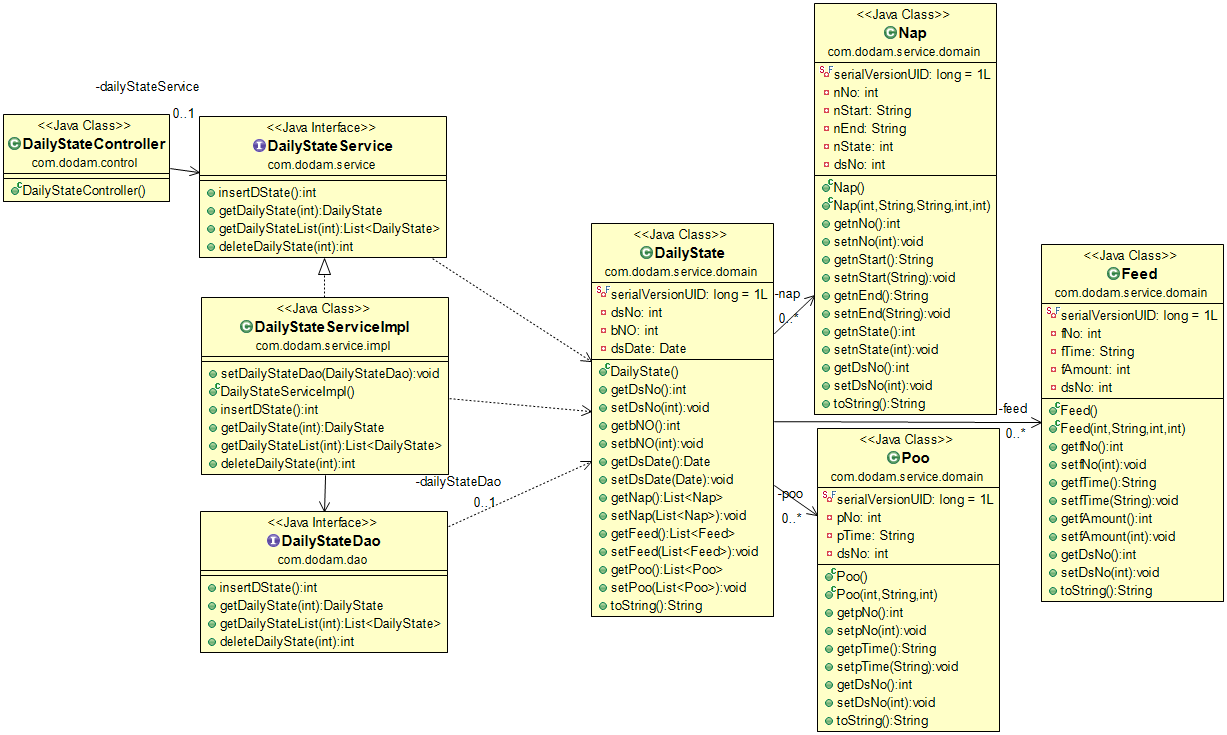
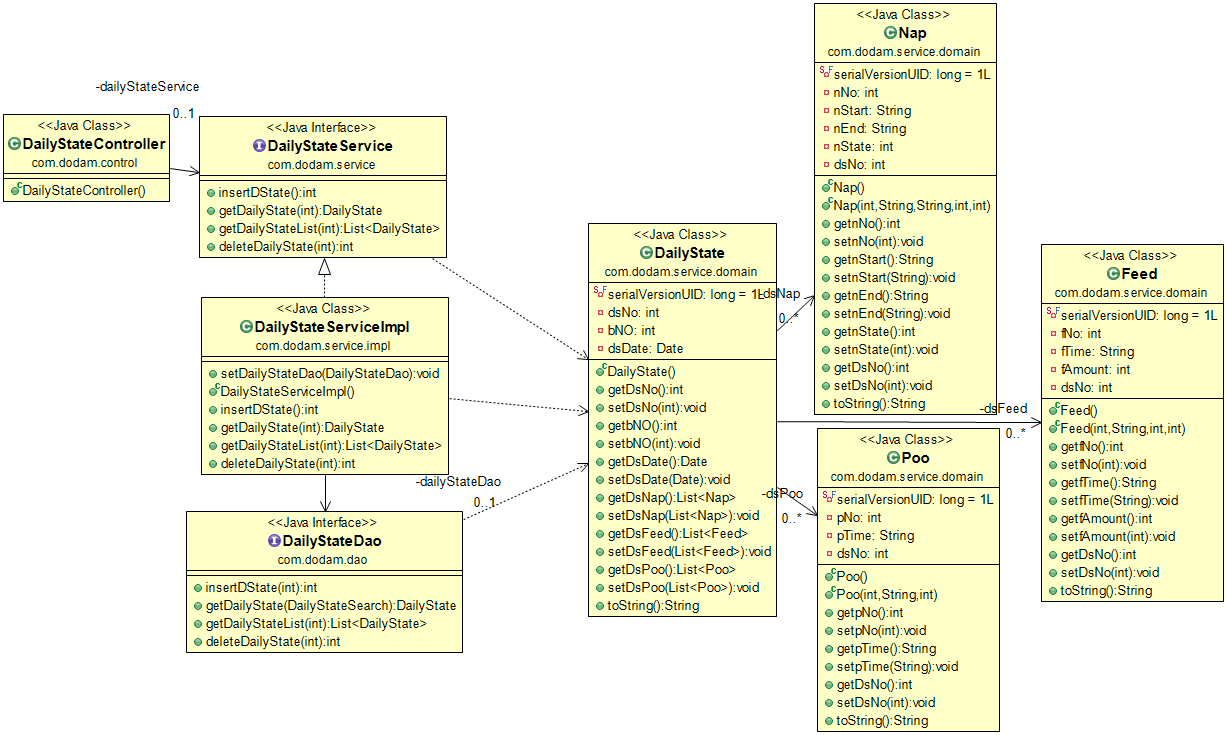
[박지훈] 1.DailyState 관련 객체들 수정중 2.폴더구조 import 확인을 위한 Test

diff --git a/DodamProject/src/main/java/com/dodam/service/domain/DailyState.java b/DodamProject/src/main/java/com/dodam/service/domain/DailyState.java
@@ -10,9 +10,9 @@ public class DailyState implements Serializable {
 	private int dsNo;
 	private int bNO;
 	private Date dsDate;
-	private List<Nap> nap;
-	private List<Feed> feed;
-	private List<Poo> poo;
+	private List<Nap> dsNap;
+	private List<Feed> dsFeed;
+	private List<Poo> dsPoo;
 	
 
 	public DailyState() {
@@ -50,33 +50,33 @@ public class DailyState implements Serializable {
 	}
 
 
-	public List<Nap> getNap() {
-		return nap;
+	public List<Nap> getDsNap() {
+		return dsNap;
 	}
 
 
-	public void setNap(List<Nap> nap) {
-		this.nap = nap;
+	public void setDsNap(List<Nap> dsNap) {
+		this.dsNap = dsNap;
 	}
 
 
-	public List<Feed> getFeed() {
-		return feed;
+	public List<Feed> getDsFeed() {
+		return dsFeed;
 	}
 
 
-	public void setFeed(List<Feed> feed) {
-		this.feed = feed;
+	public void setDsFeed(List<Feed> dsFeed) {
+		this.dsFeed = dsFeed;
 	}
 
 
-	public List<Poo> getPoo() {
-		return poo;
+	public List<Poo> getDsPoo() {
+		return dsPoo;
 	}
 
 
-	public void setPoo(List<Poo> poo) {
-		this.poo = poo;
+	public void setDsPoo(List<Poo> dsPoo) {
+		this.dsPoo = dsPoo;
 	}
 
 
@@ -89,15 +89,14 @@ public class DailyState implements Serializable {
 		builder.append(bNO);
 		builder.append(", dsDate=");
 		builder.append(dsDate);
-		builder.append(", nap=");
-		builder.append(nap);
-		builder.append(", feed=");
-		builder.append(feed);
-		builder.append(", poo=");
-		builder.append(poo);
+		builder.append(", dsNap=");
+		builder.append(dsNap);
+		builder.append(", dsFeed=");
+		builder.append(dsFeed);
+		builder.append(", dsPoo=");
+		builder.append(dsPoo);
 		builder.append("]");
 		return builder.toString();
 	}
-	
 	
 }

diff --git a/DodamProject/src/main/java/com/dodam/dao/DailyStateDao.java b/DodamProject/src/main/java/com/dodam/dao/DailyStateDao.java
@@ -2,11 +2,13 @@ package com.dodam.dao;
 
 import java.util.List;
 
+import com.dodam.common.DailyStateSearch;
 import com.dodam.service.domain.DailyState;
 
 public interface DailyStateDao {
-	int insertDState();
-	DailyState getDailyState(int bNo);
+	int insertDState(int bNo);
+	//dsNo, 날짜 전달
+	DailyState getDailyState(DailyStateSearch dailyStateSearch);
 	List<DailyState> getDailyStateList(int bNo);
 	//dsNo or bNo 전달
 	int deleteDailyState(int no); 

diff --git a/DodamProject/src/main/java/com/dodam/common/DailyStateSearch.java b/DodamProject/src/main/java/com/dodam/common/DailyStateSearch.java
@@ -1,0 +1,15 @@
+package com.dodam.common;
+
+public class DailyStateSearch {
+	
+	private int dsNo;
+	private String date;
+	
+
+	public DailyStateSearch() {
+		// TODO Auto-generated constructor stub
+	}
+	
+	
+
+}
